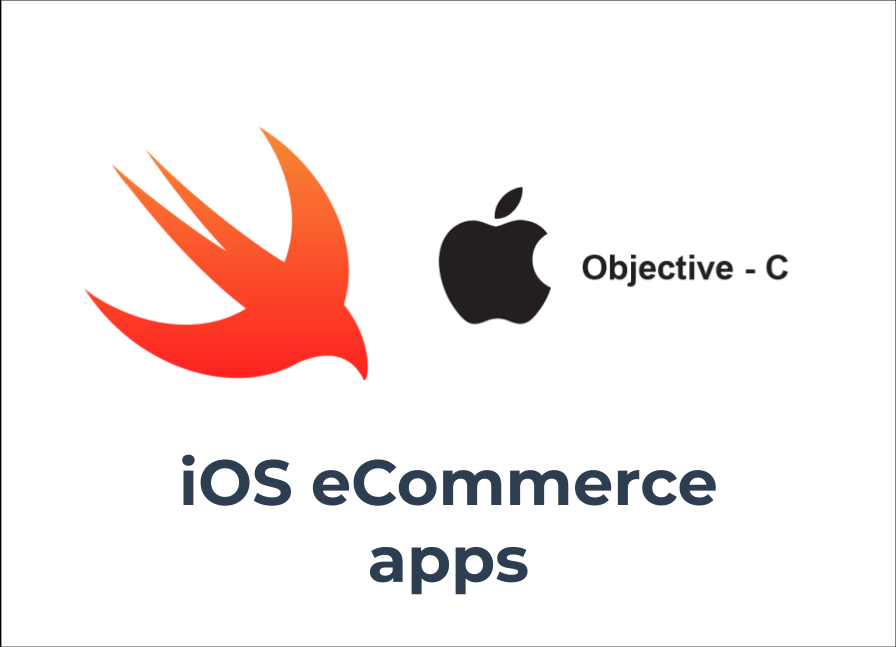
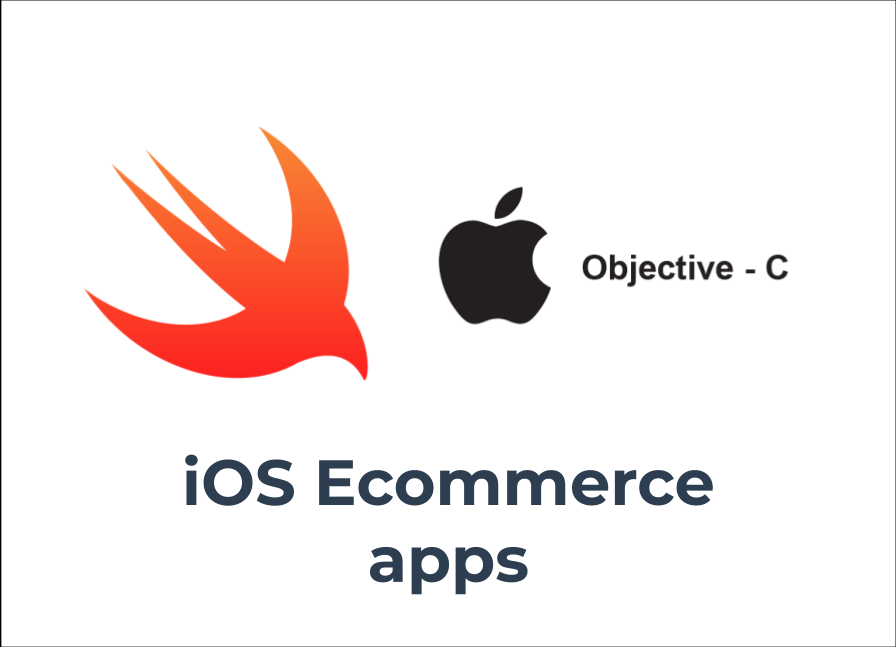
Updated portfolio

Changed region(s): [[0.1875, 0.711, 0.8125, 0.8037]]

diff --git a/index.html b/index.html
@@ -476,7 +476,7 @@
                                 </li>
                             </ul>
                             <div id="descriptionDashboard" class="tab-pane portfolio-description fade in active">
-                                <p>Real time dashboard for displaying worldwide scale eCommerce data for helping business department in making decisions and analysing ROI of marketing campaigns.</p>
+                                <p>Real time dashboard for displaying worldwide scale Ecommerce data for helping business department in making decisions and analysing ROI of marketing campaigns.</p>
                                 <p>Technology stack:</p>
                                 <ul>
                                     <li>React</li>
@@ -661,7 +661,7 @@
                                 </li>
                             </ul>
                             <div id="descriptionIos" class="tab-pane portfolio-description fade in active">
-                                <p>Development of iOS eCommerce apps for a worldwide scale retailer company.</p>
+                                <p>Development of iOS Ecommerce apps for a worldwide scale retailer company.</p>
                                 <p>Online stores available in more than 50 countries around the world with more than 1M users.</p>
                                 <p>Technology stack:</p>
                                 <ul>
